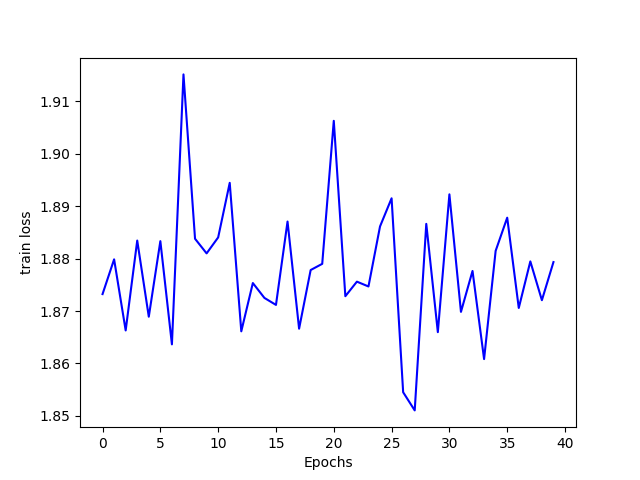
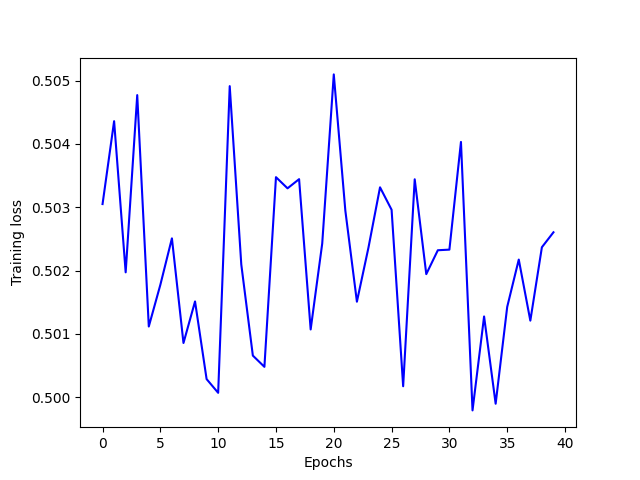
Better than others

diff --git a/train.py b/train.py
@@ -1,6 +1,7 @@
 import time
 import torch
 import torch.nn as nn
+import numpy as np
 from tqdm.auto import tqdm
 import matplotlib.pyplot as plt
 from config import DEVICE, NUM_CLASSES, NUM_EPOCHS , OUT_DIR
@@ -94,10 +95,13 @@ if __name__ == '__main__':
     params = [p for p in model.parameters() if p.requires_grad]
     
     #criterion
-    criterion = nn.TripletMarginWithDistanceLoss(distance_function=nn.PairwiseDistance(),margin=0.01 , swap = True, reduction='none')
+    criterion = nn.TripletMarginWithDistanceLoss(distance_function=nn.PairwiseDistance(),margin=0.5 , swap = True, reduction='none')
 
     # define the optimizer
-    optimizer = torch.optim.SGD(params, lr=1e-7, momentum=0.1, weight_decay=1e-5)
+    optimizer = torch.optim.SGD(params = params, lr=2e-9, momentum=0.4, weight_decay=5e-8)
+
+    scheduler = torch.optim.lr_scheduler.ReduceLROnPlateau(optimizer, factor = 0.7, patience=3, verbose = True)
+    min_loss = np.inf
 
     # initialize the Averager class
     train_loss_hist = Averager()
@@ -129,6 +133,12 @@ if __name__ == '__main__':
         val_losses.append(val_loss_hist.value)
         end = time.time()
         print(f"Took {((end - start) / 60):.3f} minutes for epoch {epoch+1}")
+
+        # save the model if validation loss has decreased
+        if val_loss_hist.value < min_loss:
+            min_loss = val_loss_hist.value
+            torch.save(model.state_dict(), f"{OUT_DIR}/mmodel_{epoch}.pth")
+            print("Model saved")
 
     training = 'done'
 

diff --git a/webapp.py b/webapp.py
@@ -9,7 +9,7 @@ from config import RESIZE_TO, CLASSES , NUM_CLASSES
 # Load the PyTorch face detection model
 model = create_model(num_classes = NUM_CLASSES)
 
-model.load_state_dict(torch.load('outputs/Model_22.pth' ))
+model.load_state_dict(torch.load('outputs/mmodel_11.pth' ))
 model.eval()
 
 
@@ -38,8 +38,10 @@ def detect_faces(image):
     boxes = outputs[0]['boxes'].data.numpy()
     scores = outputs[0]['scores'].data.numpy()
 
+    print(scores[:])
+
     # filter out boxes according to `detection_threshold`
-    boxes = boxes[scores >= 0.41].astype(np.int32)
+    boxes = boxes[scores >= 0.5].astype(np.int32)
 
     # get all the predicited class names
     pred_classes = [CLASSES[i] for i in outputs[0]['labels'].cpu().numpy()]

diff --git a/model.py b/model.py
@@ -8,7 +8,7 @@ from torchvision.models.detection.faster_rcnn import FastRCNNPredictor
 def create_model(num_classes):
     
     # load Faster RCNN pre-trained model
-    model = torchvision.models.detection.fasterrcnn_resnet50_fpn(weights="DEFAULT", pretrained=True, progress=True)
+    model = torchvision.models.detection.fasterrcnn_resnet50_fpn(weights = "DEFAULT" ,pretrained=True, pretrained_backbone=True, progress=True, trainable_backbone_layers=4)
     
     # get the number of input features 
     in_features = model.roi_heads.box_predictor.cls_score.in_features

diff --git a/config.py b/config.py
@@ -1,6 +1,6 @@
 import torch
 
-BATCH_SIZE = 16 # increase / decrease according to GPU memeory
+BATCH_SIZE = 8 # increase / decrease according to GPU memeory
 RESIZE_TO = 512 # resize the image for training and transforms
 NUM_EPOCHS = 40 # number of epochs to train for
 
